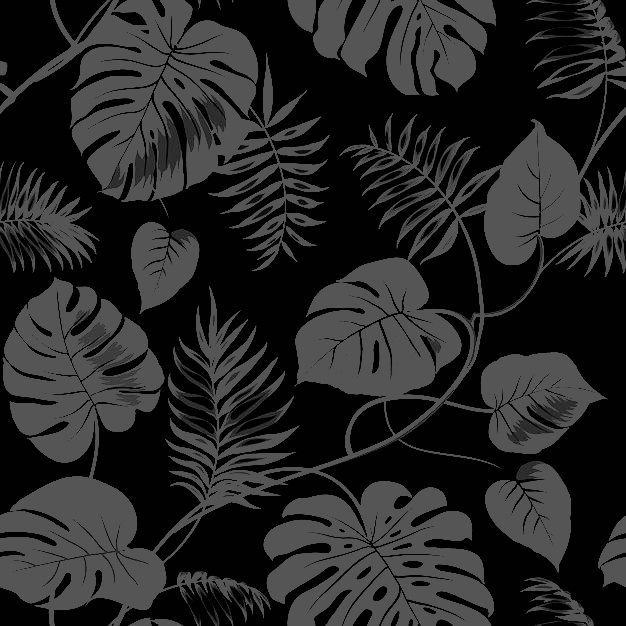
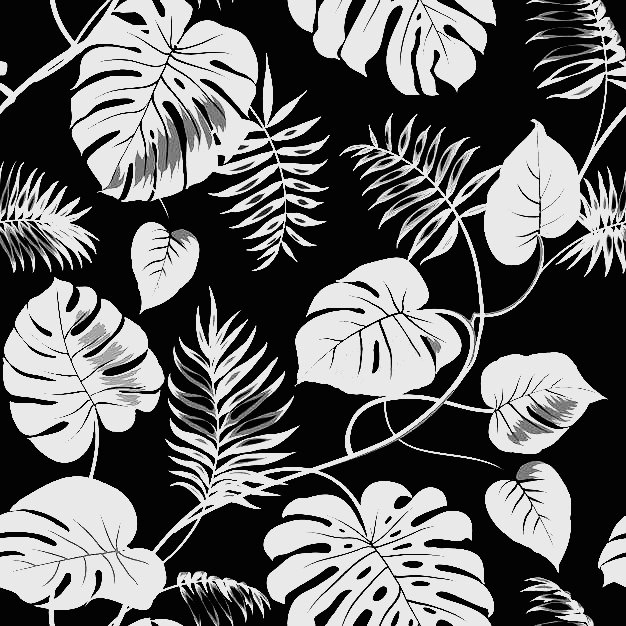
Update leaves masks

diff --git a/src/lib/components/sidebar/Sidebar.svelte b/src/lib/components/sidebar/Sidebar.svelte
@@ -131,27 +131,52 @@
 
   div.sidebar {
     border-right: 1px solid var(--color-border);
-    background-color: var(--color-panel-background);
+    background-color: var(--color-background);
+    position: relative;
     z-index: 10;
     text-align: center;
 
-    background-image: url("/leaves.jpg");
+    background-image: none;
     background-repeat: repeat;
     background-size: 20rem 20rem;
     background-attachment: fixed;
     background-blend-mode: soft-light;
 
+    &::before {
+      content: "";
+      position: fixed;
+      top: 0;
+      bottom: 0;
+      left: 0;
+      width: inherit;
+      background-color: var(--color-panel-background);
+      clip-path: inset(0 1px 0 0);
+      pointer-events: none;
+      mask-image: url("/leaves-mask.png");
+      mask-repeat: repeat;
+      mask-size: 20rem 20rem;
+      -webkit-mask-image: url("/leaves-mask.png");
+      -webkit-mask-repeat: repeat;
+      -webkit-mask-size: 20rem 20rem;
+    }
+
     :global(html[data-theme="light"]) &,
     :global(div.app-wrapper[data-theme="light"]) & {
       background-image: url("/leaves-light.jpg");
       background-blend-mode: multiply;
+
+      &::before {
+        content: none;
+      }
     }
 
-    :global(html[data-theme="cyberpunk"]) &,
-    :global(div.app-wrapper[data-theme="cyberpunk"]) &,
     :global(html[data-theme="black"]) &,
     :global(div.app-wrapper[data-theme="black"]) & {
       background-image: none;
+
+      &::before {
+        content: none;
+      }
     }
 
     @media (prefers-color-scheme: light) {
@@ -159,6 +184,10 @@
       :global(div.app-wrapper[data-theme="auto"]) & {
         background-image: url("/leaves-light.jpg");
         background-blend-mode: multiply;
+
+        &::before {
+          content: none;
+        }
       }
     }
 
@@ -171,6 +200,7 @@
       height: 100vh;
       position: sticky;
       top: 0;
+      z-index: 1;
       gap: var(--spacing-xl);
 
       a.img-wrapper,
@@ -251,11 +281,23 @@
       border-bottom: 1px solid var(--color-border);
       padding: var(--spacing-xl) var(--spacing-xl) 0;
       background-attachment: scroll;
+      transition:
+        color 0.3s ease,
+        background-color 0.3s ease,
+        box-shadow 0.3s ease,
+        outline-color 0.3s ease;
+
+      &::before {
+        position: absolute;
+        inset: 0;
+        width: auto;
+        clip-path: inset(0 0 1px 0);
+      }
 
       div.sidebar-content {
         height: unset !important;
         padding: var(--spacing-2xl) 0 var(--spacing-3xl);
-        position: initial !important;
+        position: relative !important;
       }
     }
   }